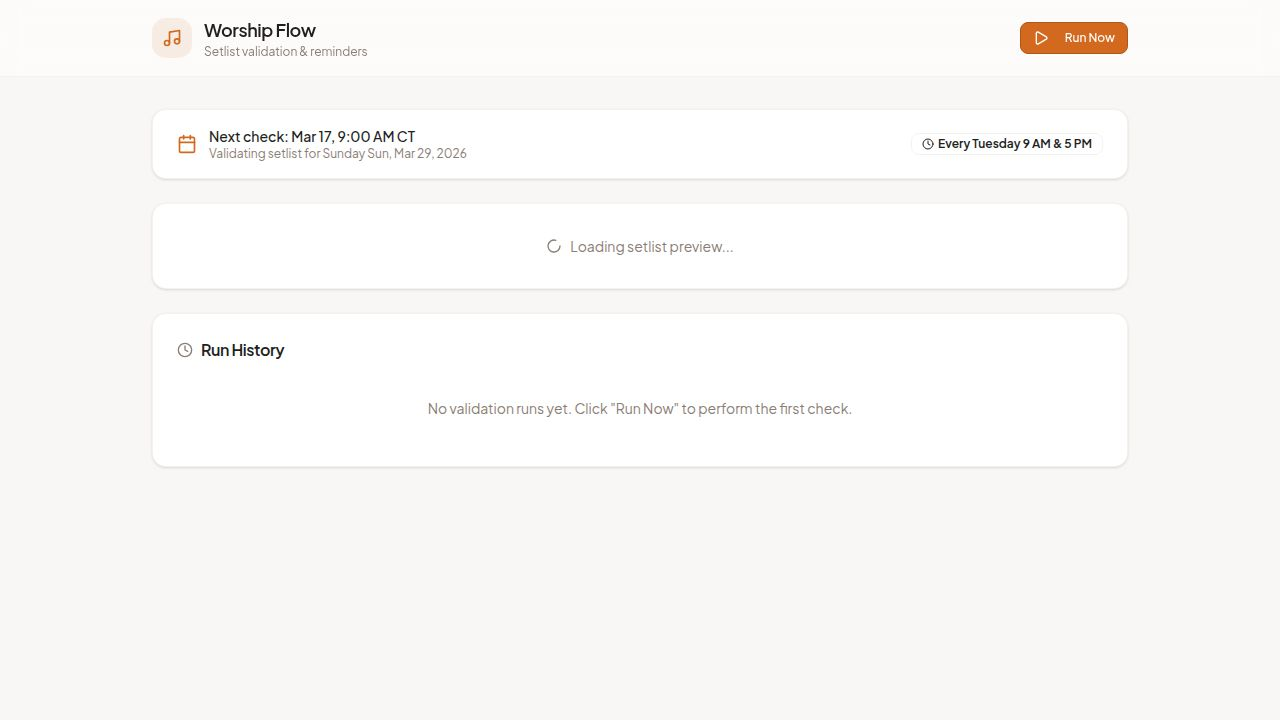
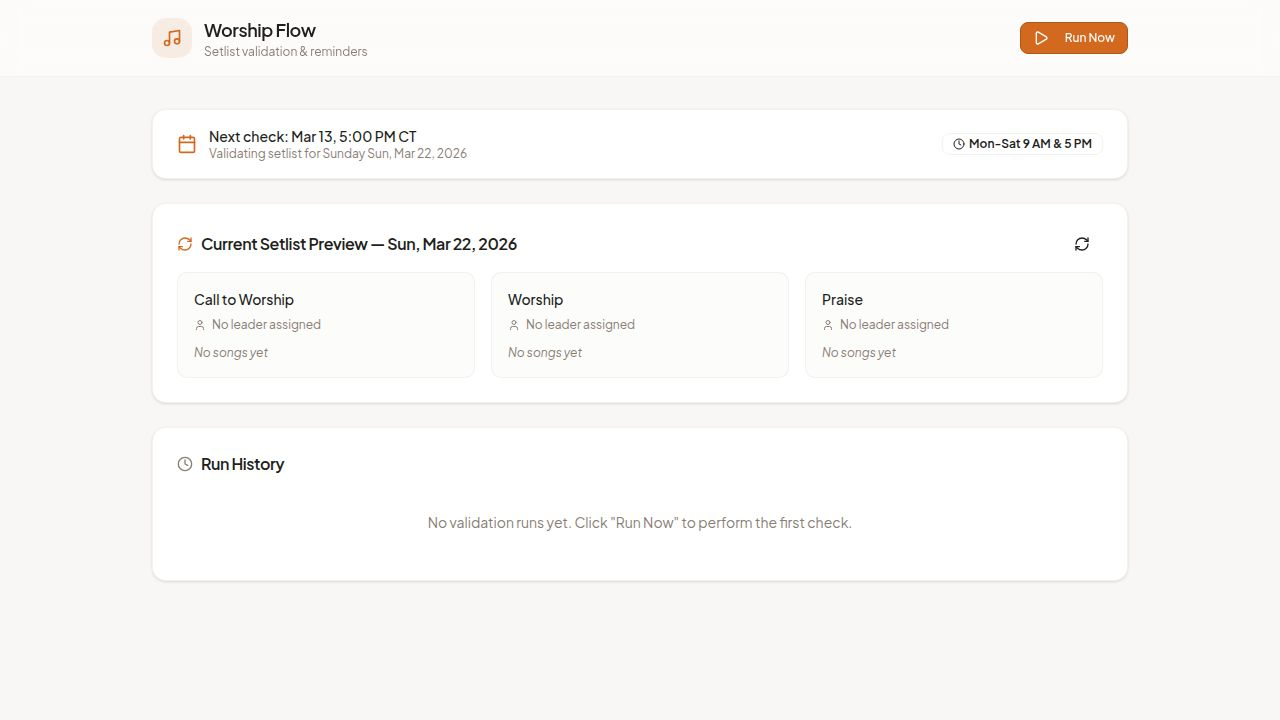
Update schedule to run daily and stop sending emails when tasks are complete
Modify cron job to run Monday-Saturday instead of only Tuesdays. Implement a check to prevent sending reminder emails if all sections are complete. Adjust `getNextScheduledRun` to reflect the new schedule and update dashboard labels.

Replit-Commit-Author: Agent
Replit-Commit-Session-Id: 85b5e519-850f-4f14-86f2-1a7bf85168b4
Replit-Commit-Checkpoint-Type: full_checkpoint
Replit-Commit-Event-Id: 9500486b-02a7-4890-a79c-163b9fc3cf45
Replit-Commit-Screenshot-Url: https://storage.googleapis.com/screenshot-production-us-central1/1e0c61a5-4d31-46a3-ba2f-1f562612833c/85b5e519-850f-4f14-86f2-1a7bf85168b4/f3fVulJ
Replit-Helium-Checkpoint-Created: true

diff --git a/server/scheduler.ts b/server/scheduler.ts
@@ -56,10 +56,16 @@ export async function runValidation(trigger: 'scheduled' | 'manual' = 'manual'):
     }
 
     result.sections = validateSections(weekData);
-    result.emailsSent = await sendValidationEmails(result.sections, targetDateStr);
 
     const complete = result.sections.filter((s) => s.status === 'complete').length;
     const total = result.sections.length;
+
+    if (complete === total && trigger === 'scheduled') {
+      log(`All ${total} sections complete for ${targetDateStr} - skipping emails`, 'scheduler');
+    } else {
+      result.emailsSent = await sendValidationEmails(result.sections, targetDateStr);
+    }
+
     log(`Validation complete: ${complete}/${total} sections ready for ${targetDateStr}`, 'scheduler');
   } catch (err: any) {
     result.error = err.message || 'Unknown error during validation';
@@ -101,13 +107,19 @@ export function getNextScheduledRun(): { nextRunAt: string; targetSunday: string
   const now = new Date();
   const ct = toCtComponents(now);
 
-  let daysUntilTuesday = (2 - ct.weekday + 7) % 7;
-
+  let daysAhead = 0;
   let nextHourCT = 9;
 
-  if (daysUntilTuesday === 0) {
+  if (ct.weekday === 0) {
+    daysAhead = 1;
+    nextHourCT = 9;
+  } else if (ct.weekday >= 1 && ct.weekday <= 6) {
     if (ct.hour >= 17) {
-      daysUntilTuesday = 7;
+      if (ct.weekday === 6) {
+        daysAhead = 2;
+      } else {
+        daysAhead = 1;
+      }
       nextHourCT = 9;
     } else if (ct.hour >= 9) {
       nextHourCT = 17;
@@ -116,7 +128,7 @@ export function getNextScheduledRun(): { nextRunAt: string; targetSunday: string
     }
   }
 
-  const nextDay = ct.day + daysUntilTuesday;
+  const nextDay = ct.day + daysAhead;
   const nextRunUtc = ctComponentsToUtc(ct.year, ct.month, nextDay, nextHourCT);
 
   const target = getTargetSunday(nextRunUtc);
@@ -128,8 +140,8 @@ export function getNextScheduledRun(): { nextRunAt: string; targetSunday: string
 }
 
 export function startScheduler() {
-  cron.schedule(`0 ${CT_9AM_UTC},${CT_5PM_UTC} * * 2`, async () => {
-    log('Scheduled validation triggered (Tuesday cron)', 'scheduler');
+  cron.schedule(`0 ${CT_9AM_UTC},${CT_5PM_UTC} * * 1-6`, async () => {
+    log('Scheduled validation triggered (Mon-Sat cron)', 'scheduler');
     try {
       await runValidation('scheduled');
     } catch (err: any) {
@@ -137,5 +149,5 @@ export function startScheduler() {
     }
   });
 
-  log('Scheduler started: Tuesdays at 9:00 AM and 5:00 PM CT', 'scheduler');
+  log('Scheduler started: Mon-Sat at 9:00 AM and 5:00 PM CT (stops when all sections complete)', 'scheduler');
 }

diff --git a/client/src/pages/dashboard.tsx b/client/src/pages/dashboard.tsx
@@ -199,7 +199,7 @@ export default function Dashboard() {
                 </div>
                 <Badge variant="outline" className="text-xs">
                   <Clock className="w-3 h-3 mr-1" />
-                  Every Tuesday 9 AM & 5 PM
+                  Mon-Sat 9 AM & 5 PM
                 </Badge>
               </div>
             </CardContent>
